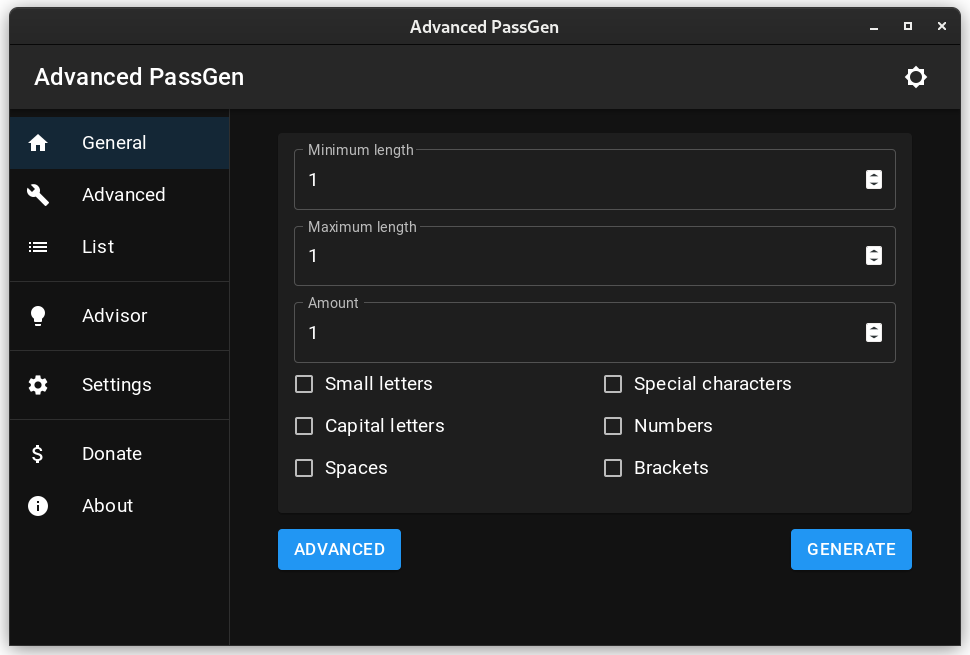
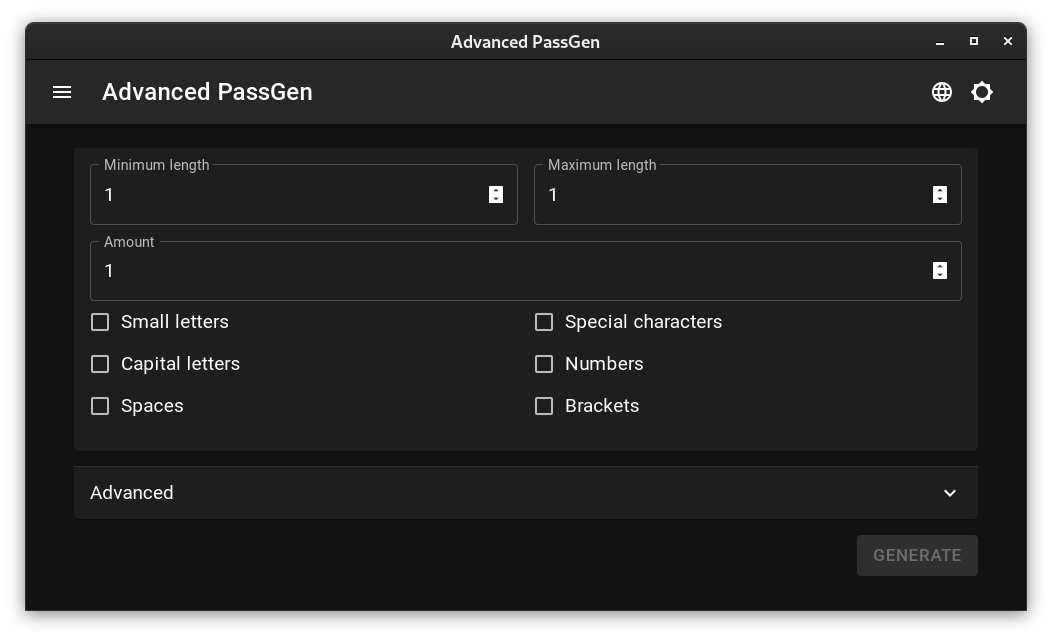
Added release notes

diff --git a/src/pages/software/advanced-passgen/requirements/index.jsx b/src/pages/software/advanced-passgen/requirements/index.jsx
@@ -106,7 +106,7 @@ const Requirements = () => {
               style={{ width: '100%' }}
               variant="contained"
               color="primary"
-              href="https://www.virustotal.com/gui/file/a60183a21b31ee19299786298dad362dbc8843b9d0a648a36f3e4165f9029996?nocache=1"
+              href="https://www.virustotal.com/gui/file/8ea45ca2f538aca7f19a0be05cf5a45252bee89198a2a5cdfcd3268b532f80bc?nocache=1"
               target="_blank"
             >
               Windows Installer
@@ -117,7 +117,7 @@ const Requirements = () => {
               style={{ width: '100%' }}
               variant="contained"
               color="primary"
-              href="https://www.virustotal.com/gui/file/5195266971a8c2b215ee8f4fb87ee635e3331d3e2dbc7048afd025a4fc7a21af?nocache=1"
+              href="https://www.virustotal.com/gui/file/96b383f9c29cb0e4b8b809b80802b5eb6f252c4cbf115f40d2f6a79cb742ac58?nocache=1"
               target="_blank"
             >
               Linux AppImage
@@ -128,7 +128,7 @@ const Requirements = () => {
               style={{ width: '100%' }}
               variant="contained"
               color="primary"
-              href="https://www.virustotal.com/gui/file/8d4ae9297c1f3a8583439b3dbf9c23fdb210eb7b5bdbee64a7bcf0ffc7671ef4?nocache=1"
+              href="https://www.virustotal.com/gui/file/d83f71c7ddfe4baf72b8148068083c34a4138c2d8fe88beac4e4c1f497833eeb?nocache=1"
               target="_blank"
             >
               macOS dmg

diff --git a/src/pages/software/advanced-passgen/index.jsx b/src/pages/software/advanced-passgen/index.jsx
@@ -150,7 +150,7 @@ const AdvancedPassGenPage = () => {
               color="primary"
               variant="contained"
               style={{ width: '100%' }}
-              href="https://codedead.com/Software/Advanced%20PassGen/advanced-passgen_2.3.0_x64_en-US.msi"
+              href="https://codedead.com/Software/Advanced%20PassGen/advanced-passgen_2.4.0_x64_en-US.msi"
             >
               Installer
             </Button>
@@ -164,7 +164,7 @@ const AdvancedPassGenPage = () => {
               color="primary"
               variant="contained"
               style={{ width: '100%' }}
-              href="https://codedead.com/Software/Advanced%20PassGen/advanced-passgen_2.3.0_amd64.AppImage"
+              href="https://codedead.com/Software/Advanced%20PassGen/advanced-passgen_2.4.0_amd64.AppImage"
             >
               AppImage
             </Button>
@@ -178,7 +178,7 @@ const AdvancedPassGenPage = () => {
               color="primary"
               variant="contained"
               style={{ width: '100%' }}
-              href="https://codedead.com/Software/Advanced%20PassGen/advanced-passgen_2.3.0_x64.dmg"
+              href="https://codedead.com/Software/Advanced%20PassGen/advanced-passgen_2.4.0_x64.dmg"
             >
               dmg
             </Button>

diff --git a/src/markdown/blog/2023/03/05/advanced-passgen-2.4.0.md b/src/markdown/blog/2023/03/05/advanced-passgen-2.4.0.md
@@ -1,0 +1,44 @@
+---
+path: "/blog/2023/03/05/advanced-passgen-2.4.0"
+title: "Advanced PassGen 2.4.0 - Release"
+author: "CodeDead"
+date: "2023-03-05"
+abstract: "A new update for Advanced PassGen is now available. The UI has been reworked to make it more efficient to use..."
+categories: "Tauri, React, News"
+---
+## Information
+
+![Advanced PassGen](https://i.imgur.com/WcaJL2t.png)
+
+A new update for Advanced PassGen is now available. The UI has been reworked to make it more efficient to use, as well as some bug fixes and improvements.
+For a full list of changes, please take a look at the changelog below.
+
+## What's Changed
+
+* Dependency upgrades, yarn upgrade by @CodeDead in https://github.com/CodeDead/Advanced-PassGen/pull/51
+* feature/cleanup by @CodeDead in https://github.com/CodeDead/Advanced-PassGen/pull/52
+* feature/ui-improvements by @CodeDead in https://github.com/CodeDead/Advanced-PassGen/pull/53
+* Dependency upgrades by @CodeDead in https://github.com/CodeDead/Advanced-PassGen/pull/54
+* feature/vault-tooltips by @CodeDead in https://github.com/CodeDead/Advanced-PassGen/pull/55
+* feature/data-grid by @CodeDead in https://github.com/CodeDead/Advanced-PassGen/pull/56
+* feature/extra-themes by @CodeDead in https://github.com/CodeDead/Advanced-PassGen/pull/57
+* feature/color-on-dark by @CodeDead in https://github.com/CodeDead/Advanced-PassGen/pull/58
+* Feature/better-navbar by @CodeDead in https://github.com/CodeDead/Advanced-PassGen/pull/59
+* Feature/UI changes by @CodeDead in https://github.com/CodeDead/Advanced-PassGen/pull/60
+* feature/vite by @CodeDead in https://github.com/CodeDead/Advanced-PassGen/pull/61
+* feature/upgrades by @CodeDead in https://github.com/CodeDead/Advanced-PassGen/pull/62
+* feature/improved-settings-ui by @CodeDead in https://github.com/CodeDead/Advanced-PassGen/pull/63
+* feature/merge-advanced by @CodeDead in https://github.com/CodeDead/Advanced-PassGen/pull/64
+* Release/v2.4.0 by @CodeDead in https://github.com/CodeDead/Advanced-PassGen/pull/65
+
+
+**Full Changelog**: https://github.com/CodeDead/Advanced-PassGen/compare/v2.3.0...v2.4.0
+
+## Download
+
+You can download the latest version of Advanced PassGen by clicking on the following link:
+[Advanced PassGen](https://codedead.com/software/advanced-passgen)
+
+## Other
+
+Feel free to [contact us](/contact) if you have any questions or if you need help.
